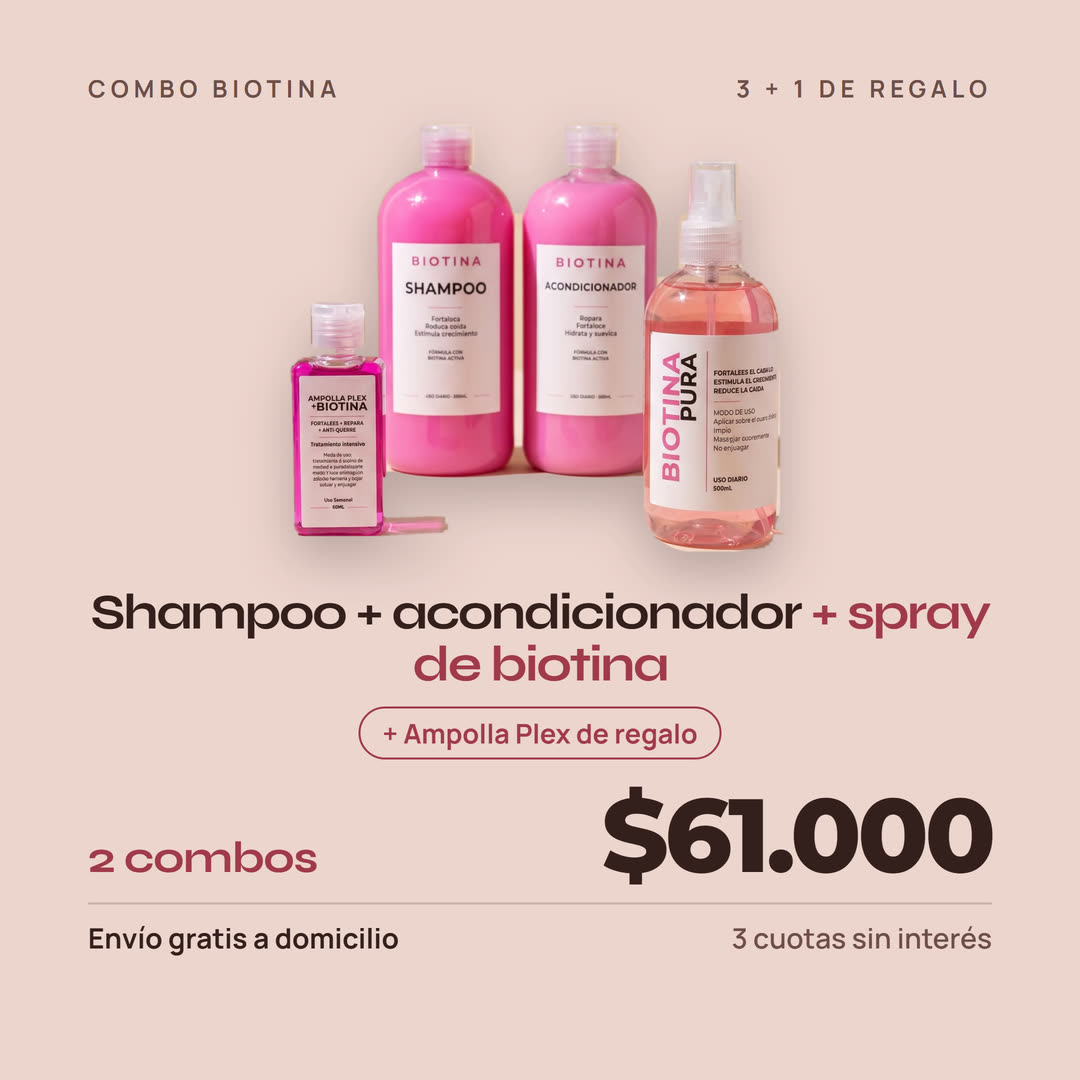
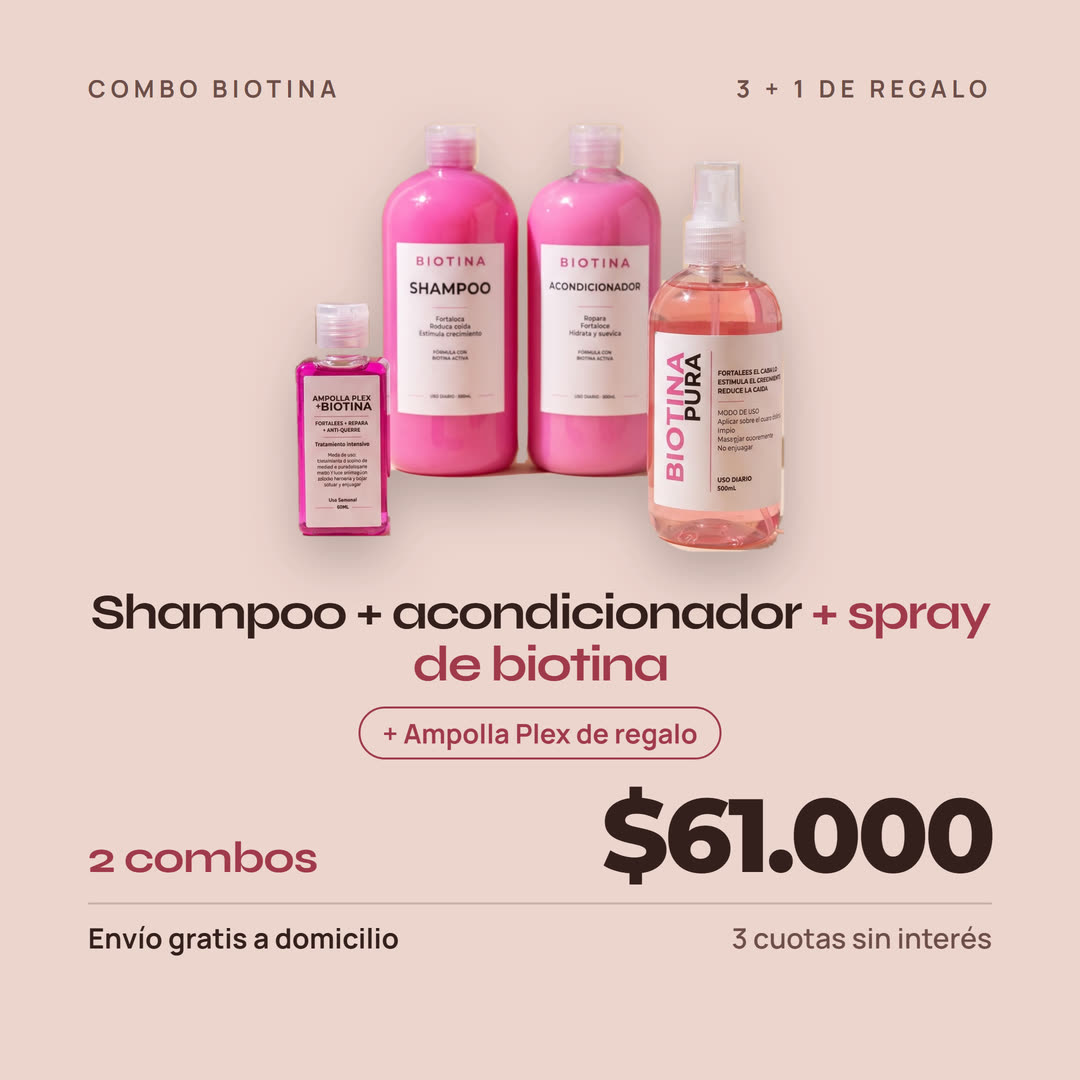
Combo: imagen sin la sombra rosa de la ampolla
Se sacaron del recorte el reflejo rosa al costado de la ampolla y la sombra marrón entre frascos. combo-hero.jpg?v=2.

diff --git a/landings/productos/combo.js b/landings/productos/combo.js
@@ -26,7 +26,7 @@ module.exports = {
   NAV_LINKS: P.navLinks(p, 'combo'),
   WA_URL: 'https://wa.me/5491124838177?text=Hola!%20Me%20interesa%20el%20Combo%20Biotina%20%F0%9F%8C%BF%20%C2%BFMe%20pod%C3%A9s%20dar%20m%C3%A1s%20info%3F',
   // 08/11/2026: imagen cuadrada en el mismo estilo que Biotina y Dúo (combo-hero.jpg, hacer-hero-combo-08-11.js). Antes: la foto combo-productos-v2.jpg.
-  HERO_MEDIA: ' <div class="hero-img cuadrado">\n <img src="combo-hero.jpg?v=1" width="1080" height="1080" fetchpriority="high" alt="Combo Biotina PG: shampoo, acondicionador y spray de biotina, con ampolla Plex de regalo. 2 combos $61.000 con envío gratis y 3 cuotas sin interés" />\n </div>\n',
+  HERO_MEDIA: ' <div class="hero-img cuadrado">\n <img src="combo-hero.jpg?v=2" width="1080" height="1080" fetchpriority="high" alt="Combo Biotina PG: shampoo, acondicionador y spray de biotina, con ampolla Plex de regalo. 2 combos $61.000 con envío gratis y 3 cuotas sin interés" />\n </div>\n',
   BADGE: P.badge('Envío a todo el país · Ampolla de regalo'),
   H1: ' <h1>Combo Biotina®: shampoo, acondicionador y spray de biotina</h1>\n',
   COMPOSICION: ' <p class="combo-composition">Shampoo y acondicionador de 500 ml + Biotina Pura en spray de 250 ml</p>\n <div class="gift-highlight">+ Ampolla Plex de regalo</div>\n',

diff --git a/index.html b/index.html
@@ -443,7 +443,7 @@
 
  <div class="product-grid" id="productos">
  <div class="product-card">
- <div class="product-card-img"><img src="combo-hero.jpg?v=1" alt="Combo Biotina PG: shampoo, acondicionador y spray de biotina, con ampolla de regalo. 2 combos $61.000 con envío gratis" width="1080" height="1080" /></div>
+ <div class="product-card-img"><img src="combo-hero.jpg?v=2" alt="Combo Biotina PG: shampoo, acondicionador y spray de biotina, con ampolla de regalo. 2 combos $61.000 con envío gratis" width="1080" height="1080" /></div>
  <div class="product-card-body">
  <span class="product-card-tag">MÁS COMPLETO</span>
  <h3>Combo Biotina®: shampoo + acondicionador + spray de biotina</h3>

diff --git a/combo-biotina.html b/combo-biotina.html
@@ -1308,7 +1308,7 @@
  <!-- HERO -->
  <div class="hero">
  <div class="hero-img cuadrado">
- <img src="combo-hero.jpg?v=1" width="1080" height="1080" fetchpriority="high" alt="Combo Biotina PG: shampoo, acondicionador y spray de biotina, con ampolla Plex de regalo. 2 combos $61.000 con envío gratis y 3 cuotas sin interés" />
+ <img src="combo-hero.jpg?v=2" width="1080" height="1080" fetchpriority="high" alt="Combo Biotina PG: shampoo, acondicionador y spray de biotina, con ampolla Plex de regalo. 2 combos $61.000 con envío gratis y 3 cuotas sin interés" />
  </div>
 
  <div class="hero-right">
